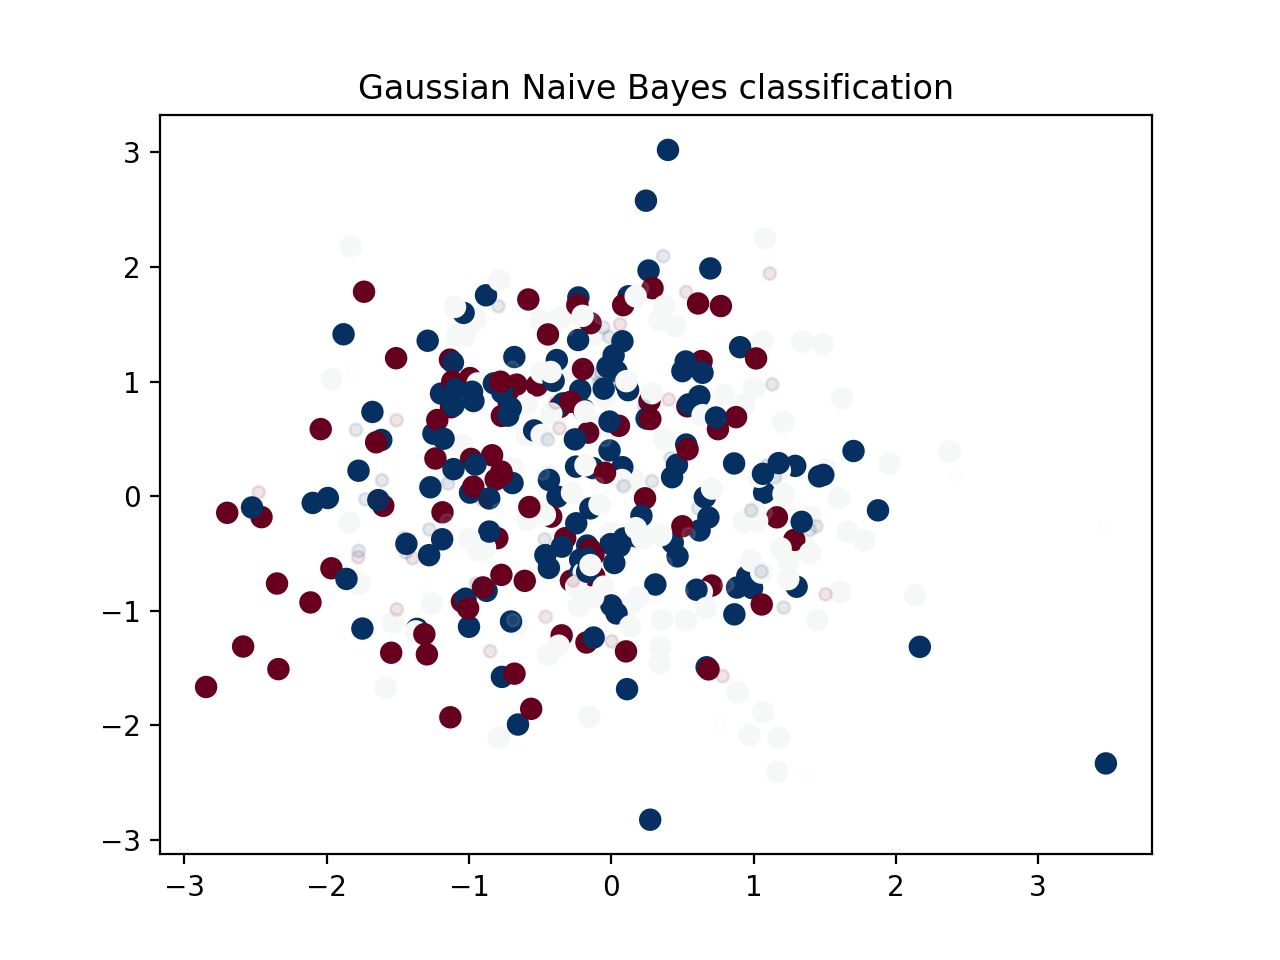
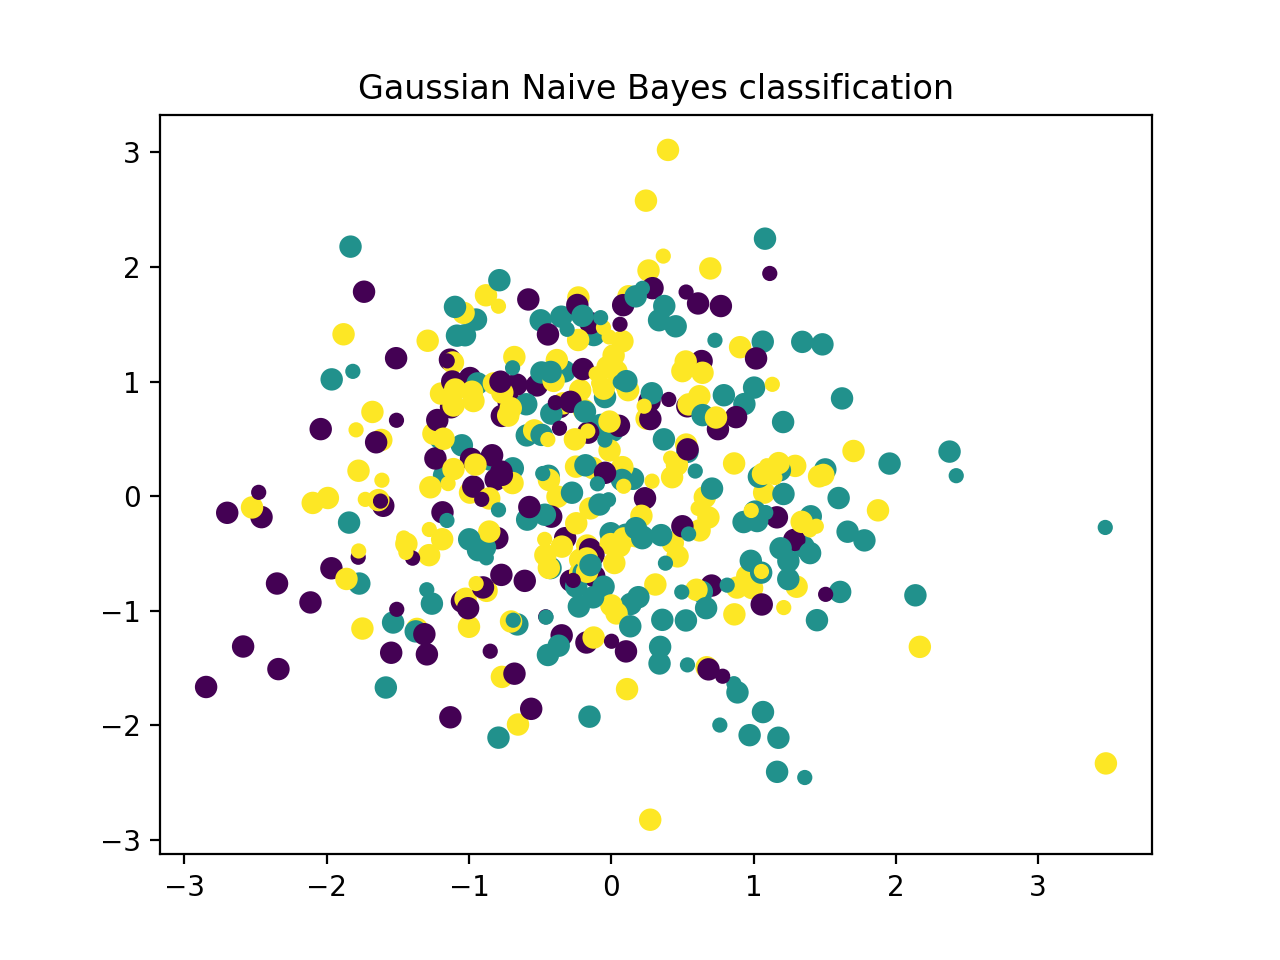
website conf matrices

diff --git a/index.html b/index.html
@@ -84,9 +84,30 @@ As we can see in the above plot, the English accents from Spanish and Arabic are
 <p> We convert the MFCC features for a give audio signal to an image and train a Convolutional Neural Network on top of it. Deep Learning has seen an increased usage in a variety of tasks and we hope that the CNN will be able to capture subtle differences and changes in the MFCC coefficients over time. Trained a shallow CNN on the MFCC images using a categorical cross entropy loss to capture the temporal changes in the MFCC coefficients.</p>
 <h3>
 <a id="analysis" class="anchor" href="#analysis" aria-hidden="true"><span aria-hidden="true" class="octicon octicon-link"></span></a>Results and Analysis</h3>
+<h4> Clustering performance </h4>
+<p>We observed that clustering algorithms deduce the best structure with the MFCC+Delta MFCC features, as shown in previous section. We have used PCA on the feature set with two principal components.</p>
+<br>
+<table>
+  <caption> Clustering evaluation</caption>
+  <tr>
+    <th>Clustering Algorithm</th>
+    <th>V-Measure</th>
+    <th>Recovered variance for first PCA principal component</th>
+  </tr>
+  <tr>
+    <td>K-Means</td>
+    <td>0.034375228348756864</td>
+    <td>0.98633235</td>
+  </tr>
+  <tr>
+    <td>Gaussian Mixture Model</td>
+    <td>0.03646988561726508</td>
+    <td>0.98634451</td>
+  </tr>
+</table>
+<p> Performance of both the algorithms is comparable, and it could be attributed to minimal structure in the data </p>
 <h4> Accuracy results and analysis </h4>
-
-<p>As mentioned in the previous section, we have experimented with a lot of feature combinations for our dataset, but found that not all features are representative of speech sample. Here are the accuracy tables for each of such combinations.</p>
+<p>As mentioned in the previous section, we have experimented with a lot of feature combinations for our dataset, but found that not all features are representative of speech sample. Here are the accuracy tables of <b>supervised learning models</b> for each of such combinations.</p>
 <br>
 <table>
   <caption> MFCC+Delta MFCC</caption>
@@ -248,6 +269,75 @@ As we can see in the above plot, the English accents from Spanish and Arabic are
 </table>
 
 <p> According to these accuracy scores, we found that the <b>combination of all features gives us the best results</b>, in general, across all the accent classes. </p>
+
+<h4> Confusion Matrices for the best feature set </h4>
+<table width="500" border="1" cellpadding="5">
+<tr>
+  <td align="center" valign="center">
+
+  <img class = "svmcm" src="svm_cm.png"/>
+  </td>
+
+  <td align="center" valign="center">
+  <b>Support Vector Classifier</b>
+  </td>
+</tr>
+<tr>
+  <td align="center" valign="center">
+
+  <img class = "svmcm" src="logreg_cm.png"/>
+  </td>
+
+  <td align="center" valign="center">
+  <b>Logistic Regression</b>
+  </td>
+</tr>
+<tr>
+  <td align="center" valign="center">
+
+  <img class = "svmcm" src="knn_cm.png"/>
+  </td>
+
+  <td align="center" valign="center">
+  <b>K- Nearest Neighbour</b>
+  </td>
+</tr>
+<tr>
+  <td align="center" valign="center">
+
+  <img class = "svmcm" src="naive_cm.png"/>
+  </td>
+
+  <td align="center" valign="center">
+  <b>Naive Bayes</b>
+  </td>
+</tr>
+<tr>
+  <td align="center" valign="center">
+
+  <img class = "svmcm" src="decision_cm.png"/>
+  </td>
+
+  <td align="center" valign="center">
+  <b>Decision Tree</b>
+  </td>
+</tr>
+<tr>
+  <td align="center" valign="center">
+
+  <img class = "svmcm" src="random_cm.png"/>
+  </td>
+
+  <td align="center" valign="center">
+  <b>Random Forest</b>
+  </td>
+</tr>
+</table>
+<h3>
+<a id="Experiments" class="anchor" href="#methodology" aria-hidden="true"><span aria-hidden="true" class="octicon octicon-link"></span></a>References</h3>
+
+
+
       <footer class="site-footer">
         <span class="site-footer-owner"><a href="https://github.gatech.edu/sratnam6/sratnam6.github.io">Pinning Accents: A Study on Accent Classifiers </a> is maintained by <a href="https://github.gatech.edu/sratnam6">sratnam6</a>.</span>
 

diff --git a/stylesheets/stylesheet.css b/stylesheets/stylesheet.css
@@ -142,6 +142,12 @@ a {
     margin-right: auto;
     width: 120%;
   }
+  .svmcm {
+    display: block;
+    margin-left: auto;
+    margin-right: auto;
+    width: 80%;
+  }
   table {
   font-family: arial, sans-serif;
   border-collapse: collapse;

diff --git a/supervised_models.py b/supervised_models.py
@@ -17,7 +17,7 @@ ENG_SIZE = 150
 np.random.seed(42)
 
 # Load the dataset
-dataset = np.load('final_dataset_top3_delta.npy')
+dataset = np.load('final_datasettop3.npy')
 X = dataset[:,:-1]
 y = dataset[:,-1]
 
@@ -31,7 +31,6 @@ yf = np.hstack((y[few_english][:,0], y[y!=1]))
 
 x, xt, y, yt = train_test_split(Xf,yf,test_size=0.20,random_state=42,stratify=yf,shuffle=True)
 
-# SVC
 # from sklearn.svm import SVC
 #
 # parameters = {'C':[0.0001,0.001,0.01,0.1,1,10,100], 'gamma':[1e-3, 1e-4]}
@@ -44,9 +43,13 @@ x, xt, y, yt = train_test_split(Xf,yf,test_size=0.20,random_state=42,stratify=yf
 # print("SVC Test:"+str(clf.score(xt,yt)))
 # print("SVC Confusion Matrix:")
 # print(confusion_matrix(yt,clf.predict(xt)))
-# df_cm = pd.DataFrame(confusion_matrix(yt,clf.predict(xt)), range(3), range(3))
-#sn.set(font_scale=1.4)
-# sn.heatmap(df_cm, annot=True,annot_kws={"size": 10})
+# cm = confusion_matrix(yt,clf.predict(xt))
+# plt.subplot()
+# sn.heatmap(cm, annot=True,fmt='g',cmap='Greens',square=True)
+# b, t = plt.ylim() # discover the values for bottom and top
+# b += 0.5 # Add 0.5 to the bottom
+# t -= 0.5 # Subtract 0.5 from the top
+# plt.ylim(b, t)
 # plt.show()
 # scores = clf.cv_results_['mean_test_score']
 # scores = np.array(scores).reshape(len(C), len(Gammas))
@@ -68,6 +71,14 @@ x, xt, y, yt = train_test_split(Xf,yf,test_size=0.20,random_state=42,stratify=yf
 # print("LogisticRegression Test:"+str(lr.score(xt,yt)))
 # print("LogisticRegression Confusion Matrix:")
 # print(confusion_matrix(yt,lr.predict(xt)))
+# cm = confusion_matrix(yt,lr.predict(xt))
+# plt.subplot()
+# sn.heatmap(cm, annot=True,fmt='g',cmap='Greens',square=True)
+# b, t = plt.ylim() # discover the values for bottom and top
+# b += 0.5 # Add 0.5 to the bottom
+# t -= 0.5 # Subtract 0.5 from the top
+# plt.ylim(b, t)
+# plt.show()
 # print(lr.coef_)
 # points_x=[x/10. for x in range(-50,+50)]
 #
@@ -86,6 +97,13 @@ x, xt, y, yt = train_test_split(Xf,yf,test_size=0.20,random_state=42,stratify=yf
 # print("KNN Test:"+str(knn.score(xt,yt)))
 # print("KNN Confusion Matrix:")
 # print(confusion_matrix(yt,knn.predict(xt)))
+# plt.subplot()
+# sn.heatmap(confusion_matrix(yt,knn.predict(xt)), annot=True,fmt='g',cmap='Greens',square=True)
+# b, t = plt.ylim() # discover the values for bottom and top
+# b += 0.5 # Add 0.5 to the bottom
+# t -= 0.5 # Subtract 0.5 from the top
+# plt.ylim(b, t)
+# plt.show()
 # x = x[:,:2]
 # x_min, x_max = x[:, 0].min() - 1, x[:, 0].max() + 1
 # y_min, y_max = x[:, 1].min() - 1, x[:, 1].max() + 1
@@ -112,9 +130,16 @@ x, xt, y, yt = train_test_split(Xf,yf,test_size=0.20,random_state=42,stratify=yf
 # print("GNB Test:"+str(gnb.score(xt,yt)))
 # print("GNB Confusion Matrix:")
 # print(confusion_matrix(yt,gnb.predict(xt)))
-# plt.scatter(x[:, 0], x[:, 1], c=y, s=50, cmap='RdBu')
+# # plt.subplot()
+# # sn.heatmap(confusion_matrix(yt,gnb.predict(xt)), annot=True,fmt='g',cmap='Greens',square=True)
+# # b, t = plt.ylim() # discover the values for bottom and top
+# # b += 0.5 # Add 0.5 to the bottom
+# # t -= 0.5 # Subtract 0.5 from the top
+# # plt.ylim(b, t)
+# # plt.show()
+# plt.scatter(x[:, 0], x[:, 1], c=y, s=50)
 # lim = plt.axis()
-# plt.scatter(xt[:, 0], xt[:, 1], c=yt, s=20, cmap='RdBu', alpha=0.1)
+# plt.scatter(xt[:, 0], xt[:, 1], c=yt, s=20)
 # plt.axis(lim)
 # plt.title('Gaussian Naive Bayes classification')
 # plt.show()
@@ -126,6 +151,13 @@ x, xt, y, yt = train_test_split(Xf,yf,test_size=0.20,random_state=42,stratify=yf
 # print("DTC Test:"+str(dtc.score(xt,yt)))
 # print("DTC Confusion Matrix:")
 # print(confusion_matrix(yt,dtc.predict(xt)))
+# plt.subplot()
+# sn.heatmap(confusion_matrix(yt,dtc.predict(xt)), annot=True,fmt='g',cmap='Greens',square=True)
+# b, t = plt.ylim() # discover the values for bottom and top
+# b += 0.5 # Add 0.5 to the bottom
+# t -= 0.5 # Subtract 0.5 from the top
+# plt.ylim(b, t)
+# plt.show()
 # print(np.argsort(dtc.feature_importances_)[::-1][:5])
 # dot_data = StringIO()
 # export_graphviz(dtc, out_file=dot_data,
@@ -136,15 +168,22 @@ x, xt, y, yt = train_test_split(Xf,yf,test_size=0.20,random_state=42,stratify=yf
 
 
 # # Random Forests
-# from sklearn.ensemble import RandomForestClassifier
-#
-# parameters = {'n_estimators':[3,5,7,10,13,15,20,25], 'max_depth':[None,10,20,30,40,50]}
-# rfc = RandomForestClassifier()
-# clf = GridSearchCV(rfc, parameters,cv=10, n_jobs=7)
-# clf.fit(x,y)
-# print("RandomForestClassifier Train:"+str(clf.score(x,y)))
-# print("RandomForestClassifier Test:"+str(clf.score(xt,yt)))
-# print("Random Confusion Matrix:")
+from sklearn.ensemble import RandomForestClassifier
+
+parameters = {'n_estimators':[3,5,7,10,13,15,20,25], 'max_depth':[None,10,20,30,40,50]}
+rfc = RandomForestClassifier()
+clf = GridSearchCV(rfc, parameters,cv=10, n_jobs=7)
+clf.fit(x,y)
+print("RandomForestClassifier Train:"+str(clf.score(x,y)))
+print("RandomForestClassifier Test:"+str(clf.score(xt,yt)))
+print("Random Confusion Matrix:")
+plt.subplot()
+sn.heatmap(confusion_matrix(yt,clf.predict(xt)), annot=True,fmt='g',cmap='Greens',square=True)
+b, t = plt.ylim() # discover the values for bottom and top
+b += 0.5 # Add 0.5 to the bottom
+t -= 0.5 # Subtract 0.5 from the top
+plt.ylim(b, t)
+plt.show()
 # print(confusion_matrix(yt,clf.predict(xt)))
 # print(clf.best_params_)
 # print(clf.best_score_)
